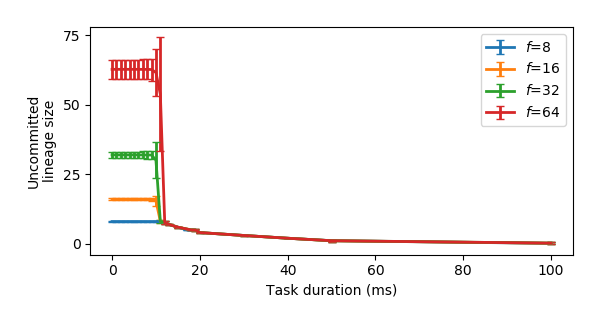
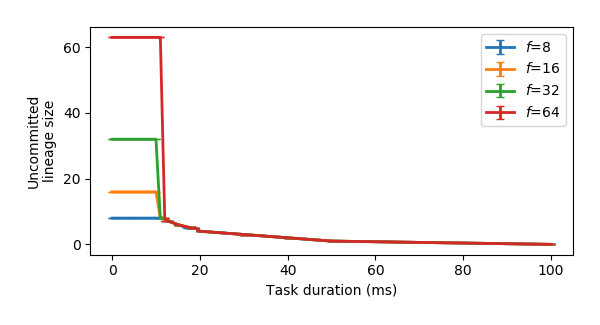
Plot quantile instead of std dev

diff --git a/data/microbenchmark/plot_uncommitted_lineage.py b/data/microbenchmark/plot_uncommitted_lineage.py
@@ -46,10 +46,13 @@ def parse_lineage(directory):
             for num_tasks, size in lineage_sizes.items():
                 aggregate_sizes[num_tasks] += size
 
-        sizes, weights = zip(*aggregate_sizes.items())
-        lineage_size_mean = np.average(sizes, weights=weights)
-        lineage_size_std = np.sqrt(np.average((sizes - lineage_size_mean) ** 2, weights=weights))
-        results[label] = (lineage_size_mean, lineage_size_std)
+        unpacked = []
+        for size, weight in aggregate_sizes.items():
+            unpacked += [size] * weight
+        median = np.median(unpacked)
+        quantile_1 = np.quantile(unpacked, 0.25)
+        quantile_3 = np.quantile(unpacked, 0.75)
+        results[label] = (median, median - quantile_1, quantile_3 - median)
 
         if num_nodes is None:
             num_nodes = label.workers
@@ -62,9 +65,8 @@ def plot(rows, save_filename):
 
     for label, row in rows:
         x, ys = zip(*row)
-        y = [point[0] for point in ys]
-        errs = [point[1] for point in ys]
-        plt.errorbar(x, y, yerr=errs, capsize=3, linewidth=2, label="$f$={}".format(label))
+        y, y1, y2 = zip(*ys)
+        plt.errorbar(x, y, yerr=[y1, y2], capsize=3, linewidth=2, label="$f$={}".format(label))
 
     plt.ylabel('Uncommitted\nlineage size')
     plt.xlabel('Task duration (ms)')

diff --git a/data/microbenchmark/plot_latency_cdf.py b/data/microbenchmark/plot_latency_cdf.py
@@ -94,12 +94,15 @@ def plot_rows(fields, results, save_filename, num_nodes):
         labels.append(label_to_str(label, num_nodes))
 
 
-    plt.ylabel('CDF')
-    plt.xlabel('Task latency (ms)')
-    plt.legend(lines, labels, loc='lower right')
     font = {'size': 18}
     plt.rc('font', **font)
-    plt.xlim(0, 25)
+
+    plt.ylabel('CDF', fontsize=18)
+    plt.xlabel('Task latency (ms)', fontsize=18)
+    plt.legend(lines, labels, loc='lower right')
+    plt.xlim(0, 20)
+    plt.xticks(range(0, 25, 5), fontsize=18)
+    plt.yticks(fontsize=18)
     plt.tight_layout()
 
     if save_filename is not None:
